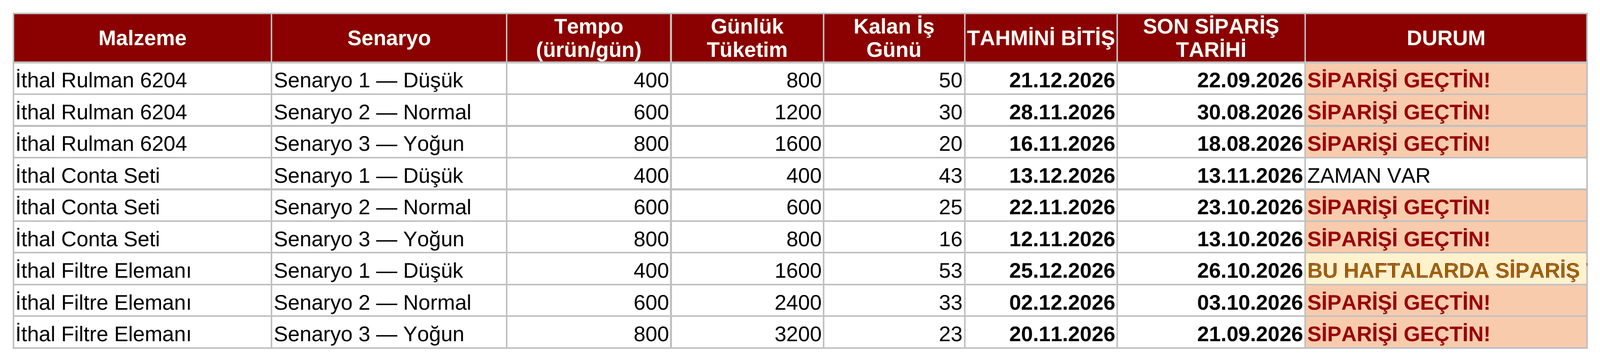
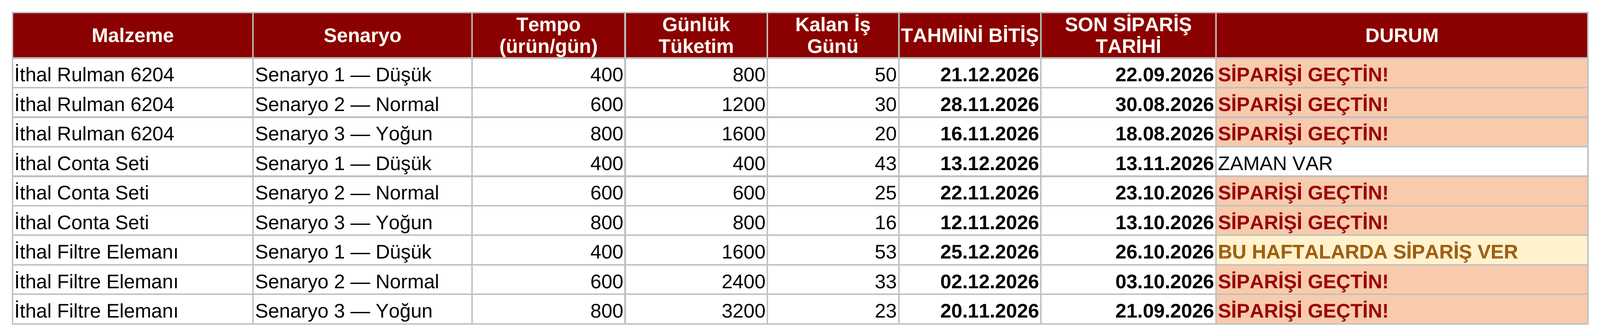
PLANLA görselleri ve Stok Bitiş Alarmı SONUÇ görseli (düzeltilmiş dosya)
- assets/img/urun/planla/: PANEL, SAYIM, SIPARIS (FABRICAKIT_PLANLA_MRP.xlsx),
  PLANLA kaydının gorseller alanına bağlandı; metin, fiyat ve bağlantı aynı
- stok-bitis-alarmi/3-sonuc: DURUM sütunu genişletilmiş dosyadan yeniden üretildi

Claude-Session: https://claude.ai/code/session_01NZkHh1FbXMBvXTQaZoXGVH

diff --git a/urun/planla/index.html b/urun/planla/index.html
@@ -13,7 +13,7 @@
 <meta property="og:title" content="PLANLA · Fabrika Dosyaları · Celcini">
 <meta property="og:description" content="Excel&#x27;de malzeme ihtiyaç planlaması (MRP) dosyası. Makrosuz, 7 sayfa, Excel 2016 ve sonrası.">
 <meta property="og:url" content="https://celcini.com/urun/planla/">
-<meta property="og:image" content="https://celcini.com/assets/img/og-cover.png">
+<meta property="og:image" content="https://celcini.com/assets/img/urun/planla/1-panel.png">
 <meta property="og:image:alt" content="Celcini">
 <meta name="twitter:card" content="summary_large_image">
 <meta name="theme-color" content="#0096C7">
@@ -25,7 +25,7 @@
 <noscript><link rel="stylesheet" href="/assets/css/noscript.css"></noscript>
 <script src="/assets/js/config.js?v=14f127ff" defer></script>
 <script src="/assets/js/main.js?v=08834545" defer></script>
-<script type="application/ld+json">{"@context":"https://schema.org","@type":"Product","name":"PLANLA","description":"Excel'de malzeme ihtiyaç planlaması (MRP) dosyası. Makrosuz, 7 sayfa, Excel 2016 ve sonrası.","sku":"planla","image":["https://celcini.com/assets/img/og-cover.png"],"url":"https://celcini.com/urun/planla/","category":"Fabrika Dosyaları","brand":{"@type":"Brand","name":"Celcini"},"offers":{"@type":"Offer","url":"https://www.shopier.com/fabricakit/51475462","priceCurrency":"TRY","price":"760.00","availability":"https://schema.org/InStock","itemCondition":"https://schema.org/NewCondition","seller":{"@type":"Organization","name":"Celcini"}}}</script>
+<script type="application/ld+json">{"@context":"https://schema.org","@type":"Product","name":"PLANLA","description":"Excel'de malzeme ihtiyaç planlaması (MRP) dosyası. Makrosuz, 7 sayfa, Excel 2016 ve sonrası.","sku":"planla","image":["https://celcini.com/assets/img/urun/planla/1-panel.png","https://celcini.com/assets/img/urun/planla/2-sabah-sayimi.png","https://celcini.com/assets/img/urun/planla/3-siparis-takvimi.png"],"url":"https://celcini.com/urun/planla/","category":"Fabrika Dosyaları","brand":{"@type":"Brand","name":"Celcini"},"offers":{"@type":"Offer","url":"https://www.shopier.com/fabricakit/51475462","priceCurrency":"TRY","price":"760.00","availability":"https://schema.org/InStock","itemCondition":"https://schema.org/NewCondition","seller":{"@type":"Organization","name":"Celcini"}}}</script>
 </head>
 <body>
 <a class="atla" href="#icerik">İçeriğe geç</a>
@@ -55,7 +55,7 @@
         <a class="dugme" href="https://www.shopier.com/fabricakit/51475462" rel="noopener">Shopier'de al<svg class="ikon" viewBox="0 0 24 24" aria-hidden="true" focusable="false"><path d="M5 12h14"/><path d="m12 5 7 7-7 7"/></svg></a>
       </div>
     </div>
-    <div class="kart galeri-bos"><svg class="ikon ikon-buyuk" viewBox="0 0 24 24" aria-hidden="true" focusable="false"><rect width="18" height="18" x="3" y="3" rx="2" ry="2"/><circle cx="9" cy="9" r="2"/><path d="m21 15-3.086-3.086a2 2 0 0 0-2.828 0L6 21"/></svg><p>Ekran görüntüleri hazırlanıyor.</p></div>
+    <div class="galeri"><div class="kart galeri-ana"><picture><source type="image/webp" srcset="/assets/img/urun/planla/1-panel.webp"><img src="/assets/img/urun/planla/1-panel.png" width="1600" height="915" alt="PLANLA PANEL sayfası: eksik malzeme, acil sipariş ve planlı üretim sayıları, acil sipariş listesi ve eksik miktarlar grafiği" data-galeri-ana></picture></div><ul class="galeri-kucuk"><li><button type="button" data-galeri-kucuk data-src="/assets/img/urun/planla/1-panel.png" data-webp="/assets/img/urun/planla/1-panel.webp" data-alt="PLANLA PANEL sayfası: eksik malzeme, acil sipariş ve planlı üretim sayıları, acil sipariş listesi ve eksik miktarlar grafiği" data-boyut="1600x915" aria-current="true" aria-label="Görsel 1"><picture><source type="image/webp" srcset="/assets/img/urun/planla/1-panel.webp"><img src="/assets/img/urun/planla/1-panel.png" width="1600" height="915" alt="" loading="lazy" decoding="async"></picture></button></li><li><button type="button" data-galeri-kucuk data-src="/assets/img/urun/planla/2-sabah-sayimi.png" data-webp="/assets/img/urun/planla/2-sabah-sayimi.webp" data-alt="PLANLA SAYIM sayfası: hammadde kodu, adı, birimi, sabah sayımı ve tedarik termini" data-boyut="1600x969" aria-current="false" aria-label="Görsel 2"><picture><source type="image/webp" srcset="/assets/img/urun/planla/2-sabah-sayimi.webp"><img src="/assets/img/urun/planla/2-sabah-sayimi.png" width="1600" height="969" alt="" loading="lazy" decoding="async"></picture></button></li><li><button type="button" data-galeri-kucuk data-src="/assets/img/urun/planla/3-siparis-takvimi.png" data-webp="/assets/img/urun/planla/3-siparis-takvimi.webp" data-alt="PLANLA SIPARIS sayfası: öncelik sırasına göre sipariş zamanı, en az miktar ve stok bitiş günü" data-boyut="1600x593" aria-current="false" aria-label="Görsel 3"><picture><source type="image/webp" srcset="/assets/img/urun/planla/3-siparis-takvimi.webp"><img src="/assets/img/urun/planla/3-siparis-takvimi.png" width="1600" height="593" alt="" loading="lazy" decoding="async"></picture></button></li></ul></div>
   </div>
   <section class="bolum" aria-labelledby="ne-baslik">
     <div class="iki-sutun">

diff --git a/urun/stok-bitis-alarmi/index.html b/urun/stok-bitis-alarmi/index.html
@@ -51,7 +51,7 @@
         <div class="eylemler"><span class="dugme-pasif" aria-disabled="true">Shopier'de yakında</span><a class="dugme-cizgi" data-link="shopier_magaza" href="#" hidden>Shopier mağazasına git<svg class="ikon" viewBox="0 0 24 24" aria-hidden="true" focusable="false"><path d="M5 12h14"/><path d="m12 5 7 7-7 7"/></svg></a></div>
       </div>
     </div>
-    <div class="galeri"><div class="kart galeri-ana"><picture><source type="image/webp" srcset="/assets/img/urun/stok-bitis-alarmi/1-baslangic.webp"><img src="/assets/img/urun/stok-bitis-alarmi/1-baslangic.png" width="1600" height="914" alt="Stok Bitiş Tarihi Alarmı BAŞLANGIÇ sayfası: cevapladığı soru, kullanım ve hesap mantığı" data-galeri-ana></picture></div><ul class="galeri-kucuk"><li><button type="button" data-galeri-kucuk data-src="/assets/img/urun/stok-bitis-alarmi/1-baslangic.png" data-webp="/assets/img/urun/stok-bitis-alarmi/1-baslangic.webp" data-alt="Stok Bitiş Tarihi Alarmı BAŞLANGIÇ sayfası: cevapladığı soru, kullanım ve hesap mantığı" data-boyut="1600x914" aria-current="true" aria-label="Görsel 1"><picture><source type="image/webp" srcset="/assets/img/urun/stok-bitis-alarmi/1-baslangic.webp"><img src="/assets/img/urun/stok-bitis-alarmi/1-baslangic.png" width="1600" height="914" alt="" loading="lazy" decoding="async"></picture></button></li><li><button type="button" data-galeri-kucuk data-src="/assets/img/urun/stok-bitis-alarmi/2-malzemeler.png" data-webp="/assets/img/urun/stok-bitis-alarmi/2-malzemeler.webp" data-alt="Stok Bitiş Tarihi Alarmı MALZEMELER sayfası: stok, birim sarf, tedarik süresi ve emniyet stoğu" data-boyut="1600x355" aria-current="false" aria-label="Görsel 2"><picture><source type="image/webp" srcset="/assets/img/urun/stok-bitis-alarmi/2-malzemeler.webp"><img src="/assets/img/urun/stok-bitis-alarmi/2-malzemeler.png" width="1600" height="355" alt="" loading="lazy" decoding="async"></picture></button></li><li><button type="button" data-galeri-kucuk data-src="/assets/img/urun/stok-bitis-alarmi/3-sonuc.png" data-webp="/assets/img/urun/stok-bitis-alarmi/3-sonuc.webp" data-alt="Stok Bitiş Tarihi Alarmı SONUÇ sayfası: üç senaryoda tahmini bitiş, son sipariş tarihi ve durum" data-boyut="1600x361" aria-current="false" aria-label="Görsel 3"><picture><source type="image/webp" srcset="/assets/img/urun/stok-bitis-alarmi/3-sonuc.webp"><img src="/assets/img/urun/stok-bitis-alarmi/3-sonuc.png" width="1600" height="361" alt="" loading="lazy" decoding="async"></picture></button></li></ul></div>
+    <div class="galeri"><div class="kart galeri-ana"><picture><source type="image/webp" srcset="/assets/img/urun/stok-bitis-alarmi/1-baslangic.webp"><img src="/assets/img/urun/stok-bitis-alarmi/1-baslangic.png" width="1600" height="914" alt="Stok Bitiş Tarihi Alarmı BAŞLANGIÇ sayfası: cevapladığı soru, kullanım ve hesap mantığı" data-galeri-ana></picture></div><ul class="galeri-kucuk"><li><button type="button" data-galeri-kucuk data-src="/assets/img/urun/stok-bitis-alarmi/1-baslangic.png" data-webp="/assets/img/urun/stok-bitis-alarmi/1-baslangic.webp" data-alt="Stok Bitiş Tarihi Alarmı BAŞLANGIÇ sayfası: cevapladığı soru, kullanım ve hesap mantığı" data-boyut="1600x914" aria-current="true" aria-label="Görsel 1"><picture><source type="image/webp" srcset="/assets/img/urun/stok-bitis-alarmi/1-baslangic.webp"><img src="/assets/img/urun/stok-bitis-alarmi/1-baslangic.png" width="1600" height="914" alt="" loading="lazy" decoding="async"></picture></button></li><li><button type="button" data-galeri-kucuk data-src="/assets/img/urun/stok-bitis-alarmi/2-malzemeler.png" data-webp="/assets/img/urun/stok-bitis-alarmi/2-malzemeler.webp" data-alt="Stok Bitiş Tarihi Alarmı MALZEMELER sayfası: stok, birim sarf, tedarik süresi ve emniyet stoğu" data-boyut="1600x355" aria-current="false" aria-label="Görsel 2"><picture><source type="image/webp" srcset="/assets/img/urun/stok-bitis-alarmi/2-malzemeler.webp"><img src="/assets/img/urun/stok-bitis-alarmi/2-malzemeler.png" width="1600" height="355" alt="" loading="lazy" decoding="async"></picture></button></li><li><button type="button" data-galeri-kucuk data-src="/assets/img/urun/stok-bitis-alarmi/3-sonuc.png" data-webp="/assets/img/urun/stok-bitis-alarmi/3-sonuc.webp" data-alt="Stok Bitiş Tarihi Alarmı SONUÇ sayfası: üç senaryoda tahmini bitiş, son sipariş tarihi ve durum" data-boyut="1600x336" aria-current="false" aria-label="Görsel 3"><picture><source type="image/webp" srcset="/assets/img/urun/stok-bitis-alarmi/3-sonuc.webp"><img src="/assets/img/urun/stok-bitis-alarmi/3-sonuc.png" width="1600" height="336" alt="" loading="lazy" decoding="async"></picture></button></li></ul></div>
   </div>
   <section class="bolum" aria-labelledby="ne-baslik">
     <div class="iki-sutun">
